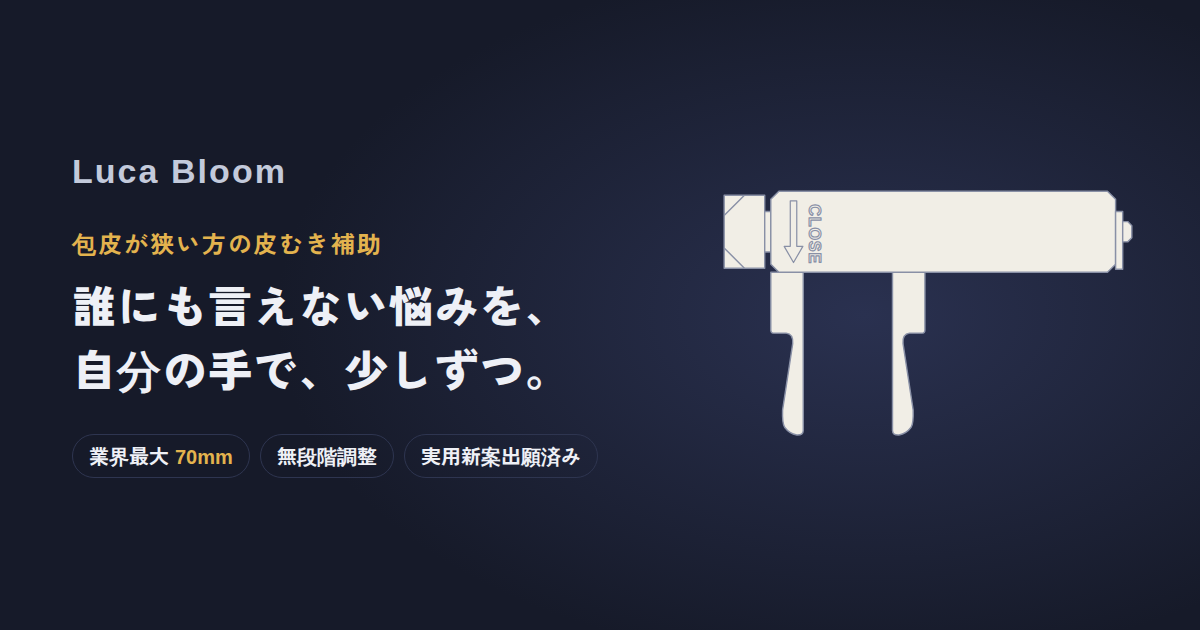
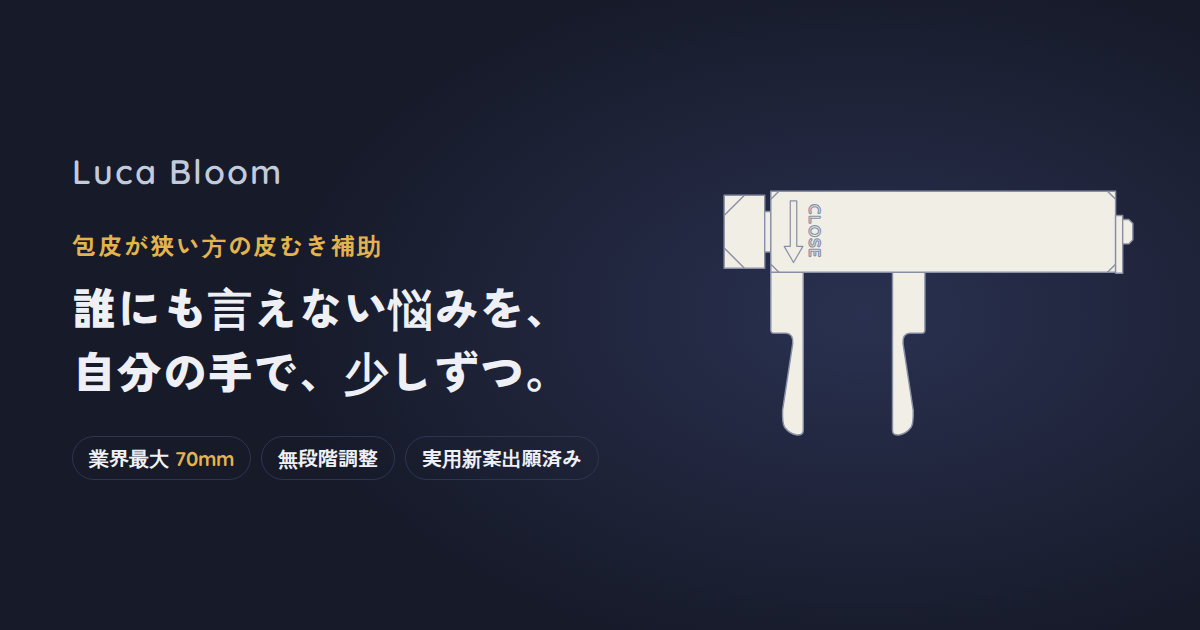
Match 3D model and motion to the drawings
Loft both arms from the drawn side profile with a 6mm body, R1 edges,
a full-round R3 tip and the R5 root fillet on the fixed arm, replacing
the extruded approximation. Square the body edges, seat the keyhole
retainer on the shaft's narrow end, add the φ4 groove and φ6 tip, and
turn the handle in the CLOSE-arrow direction when the arms close
(right-hand Tr8x2, 2mm per turn). Correct the 2D body corners and
retainer position and regenerate the OG image.

Claude-Session: https://claude.ai/code/session_016YenGTG3x62jvD6ZRQeA6d

diff --git a/index.html b/index.html
@@ -212,9 +212,10 @@ footer p{margin-top:8px}
       <rect x="-11.5" y="1" width="10" height="18"/>
       <path d="M-6.5 1L-11.5 6M-6.5 19L-11.5 14" fill="none"/>
       <rect x="-1.5" y="5" width="1.5" height="10"/>
-      <path d="M2 0H83L85 2V18L83 20H2L0 18V2Z"/>
-      <path d="M85 5H86.75V19.25H85Z"/>
-      <path d="M86.75 7.5H88L89 8.5V11.5L88 12.5H86.75Z"/>
+      <rect x="0" y="0" width="85" height="20"/>
+      <path d="M0 2L2 0M83 0L85 2M85 18L83 20M2 20L0 18" fill="none"/>
+      <path d="M85 6H86.75V20.25H85Z"/>
+      <path d="M86.75 7H88.25L89.25 8V12L88.25 13H86.75Z"/>
       <path d="M4.8 2.4V13.6H3.3L5.6 17.6L7.9 13.6H6.4V2.4Z" fill="none" stroke-width=".3"/>
       <text transform="translate(9.4 3.2) rotate(90)" font-family="Quicksand,Arial,sans-serif" font-size="4" font-weight="700" fill="none" stroke-width=".28" letter-spacing=".2">CLOSE</text>
     </g>
@@ -572,8 +573,8 @@ document.addEventListener('DOMContentLoaded',function(){
 
   // ---------- 本体 85×20×20：上面に78×13の開口、底面に69×6のスリット、底板3.5 ----------
   (function(){
-    var s=new THREE.Shape(); rrect(s,-41.9,-9.4,83.8,18.8,1.2,false); rrect(s,-38.4,-5.9,76.8,11.8,1.5,true);
-    add(upright(new THREE.ExtrudeGeometry(s,{depth:18.8,bevelEnabled:true,bevelThickness:0.6,bevelSize:0.6,bevelSegments:2,curveSegments:6}),0.6));
+    var s=new THREE.Shape(); rrect(s,-42,-9.5,84,19,0.3,false); rrect(s,-38.5,-6,77,12,1.5,true);
+    add(upright(new THREE.ExtrudeGeometry(s,{depth:19,bevelEnabled:true,bevelThickness:0.5,bevelSize:0.5,bevelSegments:1,curveSegments:6}),0.5));
     var b=new THREE.Shape(); rrect(b,-39.5,-7,79,14,1,false); rrect(b,-34.5,-3,69,6,2.9,true);
     add(upright(new THREE.ExtrudeGeometry(b,{depth:3.5,bevelEnabled:false,curveSegments:8}),0));
   })();
@@ -593,13 +594,15 @@ document.addEventListener('DOMContentLoaded',function(){
   // ---------- シャフト（回転部）：Tr8×2 1条、ハンドル18角＋頂点面取り5×5×5 ----------
   var shaft=new THREE.Group(); shaft.position.set(0,10,0); dev.add(shaft);
   (function(){
-    var core=new THREE.CylinderGeometry(3.25,3.25,86,24); core.rotateZ(Math.PI/2); add(core,POM,shaft).position.x=1.5;
+    var core=new THREE.CylinderGeometry(3.25,3.25,84,24); core.rotateZ(Math.PI/2); add(core,POM,shaft).position.x=0.5;
+    var groove=new THREE.CylinderGeometry(2,2,2.4,20); groove.rotateZ(Math.PI/2); add(groove,POM,shaft).position.x=43.6;
     var pts=[], turns=38, seg=turns*20;
     for(var k=0;k<=seg;k++){ var t=k/seg, a=t*turns*Math.PI*2; pts.push(new THREE.Vector3(-38+t*turns*2,Math.cos(a)*3.4,Math.sin(a)*3.4)); }
     add(new THREE.TubeGeometry(new THREE.CatmullRomCurve3(pts),seg,0.62,6,false),POM,shaft);
     var neck=new THREE.CylinderGeometry(5,5,4,32); neck.rotateZ(Math.PI/2); add(neck,POM,shaft).position.x=-42.5;
     var fl=new THREE.CylinderGeometry(6,6,1,32); fl.rotateZ(Math.PI/2); add(fl,POM,shaft).position.x=-43.7;
-    var tip=new THREE.CylinderGeometry(2.2,3,2.3,24); tip.rotateZ(-Math.PI/2); add(tip,POM,shaft).position.x=45.4;
+    var tip=new THREE.CylinderGeometry(2,3,1,24); tip.rotateZ(-Math.PI/2); add(tip,POM,shaft).position.x=46.25;
+    var tipb=new THREE.CylinderGeometry(3,3,1,24); tipb.rotateZ(Math.PI/2); add(tipb,POM,shaft).position.x=45.25;
     // ハンドル：内側端 x=-44 → 外側端 x=-54（長さ10）、断面18×18、外側4隅を5mm頂点面取り
     var A=-44, B=-54, M=-49, h=9, c=4, v=[];
     function tri(p,q,r){ v.push(p[0],p[1],p[2],q[0],q[1],q[2],r[0],r[1],r[2]); }
@@ -619,26 +622,54 @@ document.addEventListener('DOMContentLoaded',function(){
   (function(){
     var s=new THREE.Shape(); s.moveTo(-5.25,5.25); s.absarc(0,5.25,5.25,Math.PI,2*Math.PI,false); s.lineTo(5.25,9); s.absarc(0,9,5.25,0,Math.PI,false); s.lineTo(-5.25,5.25);
     var g=new THREE.ExtrudeGeometry(s,{depth:1.75,bevelEnabled:true,bevelThickness:0.3,bevelSize:0.3,bevelSegments:1,curveSegments:24});
-    g.rotateY(Math.PI/2); add(g).position.set(42.8,0.75,0);
+    g.rotateY(Math.PI/2); add(g).position.set(42.8,-0.25,0);
   })();
 
-  // ---------- アーム：図面の側面形状を厚み6で押し出し ----------
-  function armShape(d){
-    var s=new THREE.Shape(), X=function(x){return x*d;};
-    s.moveTo(0,2); s.lineTo(0,-39);
-    s.quadraticCurveTo(0,-40.2,X(1.6),-40.1); s.quadraticCurveTo(X(3.4),-39.8,X(4.6),-38.2); s.quadraticCurveTo(X(5.2),-37.2,X(5.1),-34);
-    s.lineTo(X(2.6),-17.6); s.quadraticCurveTo(X(2.4),-15.2,X(4.2),-15); s.lineTo(X(7.2),-15); s.quadraticCurveTo(X(8),-15,X(8),-14.2);
-    s.lineTo(X(8),2); s.lineTo(0,2);
-    var g=new THREE.ExtrudeGeometry(s,{depth:3.4,bevelEnabled:true,bevelThickness:1.3,bevelSize:0.8,bevelSegments:4,curveSegments:14});
-    g.translate(0,0,-1.7); return g;
+  // ---------- アーム：図面の側面形状（駆動アーム図・本体図）をそのまま断面に ----------
+  // 内側の直線面が x=0、外側へ +x。本体下面 y=0 から下へ40mm。上部15mmは幅8、段差（くぼみ）の後、
+  // 幅2.5→5へ太くなる刃部（逆テーパー）、先端はR3。厚み方向(z)は6mm、先端は半径3の丸、角R1。
+  function armOutline(top){
+    var P=[[0,top]], cur=[0,top];
+    function L(x,y){ P.push([x,y]); cur=[x,y]; }
+    function Q(cx,cy,x,y){ for(var i=1;i<=16;i++){ var t=i/16,a=(1-t)*(1-t),b=2*(1-t)*t,c=t*t; P.push([a*cur[0]+b*cx+c*x,a*cur[1]+b*cy+c*y]); } cur=[x,y]; }
+    L(0,-39); Q(0,-40.2,1.6,-40.1); Q(3.4,-39.8,4.6,-38.2); Q(5.2,-37.2,5.1,-34);
+    L(2.6,-17.6); Q(2.4,-15.2,4.2,-15); L(7.2,-15); Q(8,-15,8,-14.2); L(8,top);
+    return P;
   }
-  var INNER=-34.5;                                   // 両アームの内側面（最小時は接する）
-  add(armShape(-1)).position.x=INNER-0.8;            // 固定アーム（ハンドル側、本体と一体）
+  function spanAt(P,y){
+    var lo=1e9, hi=-1e9;
+    for(var i=0;i<P.length;i++){ var p=P[i], q=P[(i+1)%P.length];
+      if((p[1]-y)*(q[1]-y)<=0 && p[1]!==q[1]){ var x=p[0]+(q[0]-p[0])*(y-p[1])/(q[1]-p[1]); lo=Math.min(lo,x); hi=Math.max(hi,x); } }
+    return lo<=hi?[lo,hi]:null;
+  }
+  function armGeo(dir,top,fillet){
+    var P=armOutline(top), yb=Math.min.apply(null,P.map(function(p){return p[1];}));
+    var ys=[], y; for(y=top;y>yb+0.05;y-=0.1) ys.push(y+0.0137); ys.push(yb+0.02);
+    var CK=6, pos=[], idx=[], rings=0, center=[];
+    ys.forEach(function(yy){
+      var sp=spanAt(P,yy); if(!sp) return;
+      var hz=3, yc=yb+3;
+      if(yy<yc) hz=Math.sqrt(Math.max(0.0004,9-(yy-yc)*(yy-yc)));
+      if(fillet){ if(yy>0) hz=8; else if(yy>-5) hz=8-Math.sqrt(25-(yy+5)*(yy+5)); }   // 本体との付け根 R5
+      var cx=(sp[0]+sp[1])/2, ax=Math.max(0.02,(sp[1]-sp[0])/2), r=Math.min(1,ax*0.95,hz*0.95);
+      for(var q=0;q<4;q++){ var sx=(q===0||q===3)?1:-1, sz=q<2?1:-1;
+        for(var k=0;k<CK;k++){ var th=(q+k/(CK-1))*Math.PI/2;
+          pos.push(dir*(cx+sx*(ax-r)+r*Math.cos(th)), yy, sz*(hz-r)+r*Math.sin(th)); } }
+      center.push([dir*cx,yy]); rings++;
+    });
+    var N=CK*4;
+    for(var i=0;i<rings-1;i++) for(var j=0;j<N;j++){ var a=i*N+j,b=i*N+(j+1)%N; idx.push(a,a+N,b, b,a+N,b+N); }
+    var t0=pos.length/3; pos.push(center[0][0],top,0); for(j=0;j<N;j++) idx.push(t0,j,(j+1)%N);
+    var t1=pos.length/3, lc=center[rings-1]; pos.push(lc[0],yb,0); for(j=0;j<N;j++) idx.push((rings-1)*N+(j+1)%N,(rings-1)*N+j,t1);
+    var g=new THREE.BufferGeometry(); g.setAttribute('position',new THREE.Float32BufferAttribute(pos,3)); g.setIndex(idx); g.computeVertexNormals(); return g;
+  }
+  var INNER=-34.5;                                   // 両アームの内側面（本体左端から8mm。最小時は2本が接する）
+  add(armGeo(-1,2,true)).position.x=INNER;           // 固定アーム（ハンドル側、本体と一体）
   var mover=new THREE.Group(); dev.add(mover);
-  add(armShape(1),POM,mover).position.x=INNER+0.8;   // 駆動アーム
+  add(armGeo(1,4,false),POM,mover).position.x=INNER; // 駆動アーム（ナット下面から44mm）
   var nut=new THREE.BoxGeometry(12,12,12); nut.translate(INNER+6,10,0); add(nut,POM,mover);
 
-  function place(){ mover.position.x=current; shaft.rotation.x=current*Math.PI; }   // 1回転=2mm
+  function place(){ mover.position.x=current; shaft.rotation.x=-current*Math.PI; }  // 1回転(2π)=2mm。閉じる向き＝側面の矢印が下へ動く向き
 
   function resize(){
     var w=stage.clientWidth,h=stage.clientHeight; renderer.setSize(w,h,false);
@@ -656,7 +687,7 @@ document.addEventListener('DOMContentLoaded',function(){
   var running=false, visible=true, t0=performance.now();
   function frame(now){
     var anim=!reduce;
-    if(demo&&anim){ target=30*(1-Math.cos((now-t0)/1000*0.8))/2; show(target); slider.value=10+target; }
+    if(demo&&anim){ target=20*(1-Math.cos((now-t0)/1000*0.6))/2; show(target); slider.value=10+target; }
     if(!touched&&anim) rotT=BASE+Math.sin((now-t0)/3400)*0.3;
     rotY+=(rotT-rotY)*0.1; current+=(target-current)*(demo?1:0.16); if(Math.abs(target-current)<0.01) current=target;
     model.rotation.y=rotY; place(); renderer.render(scene,camera);
